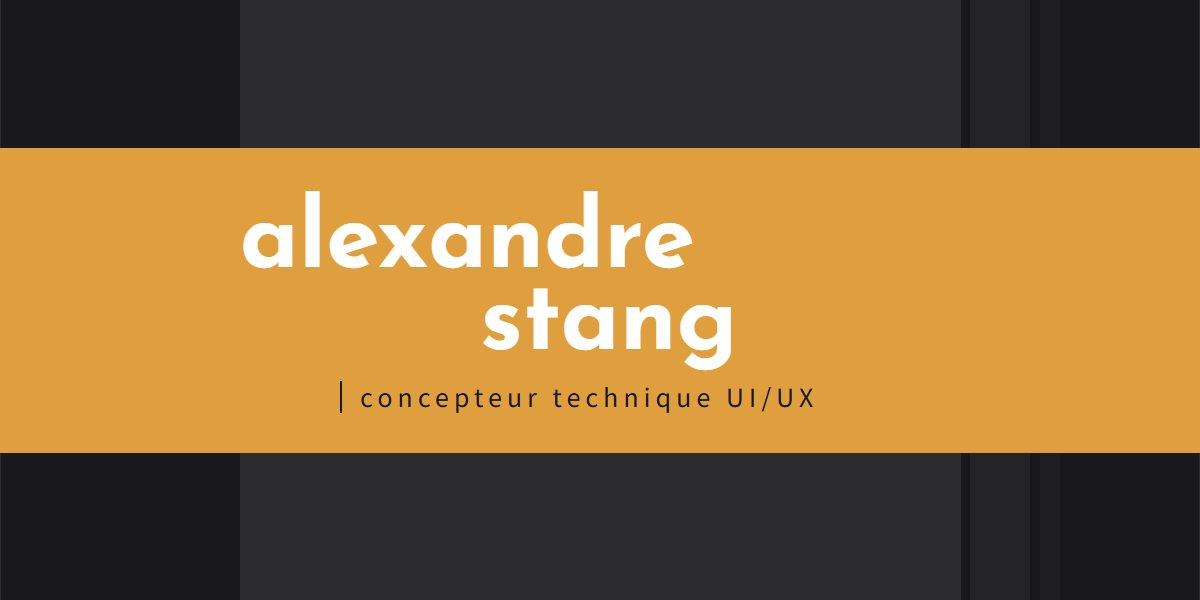
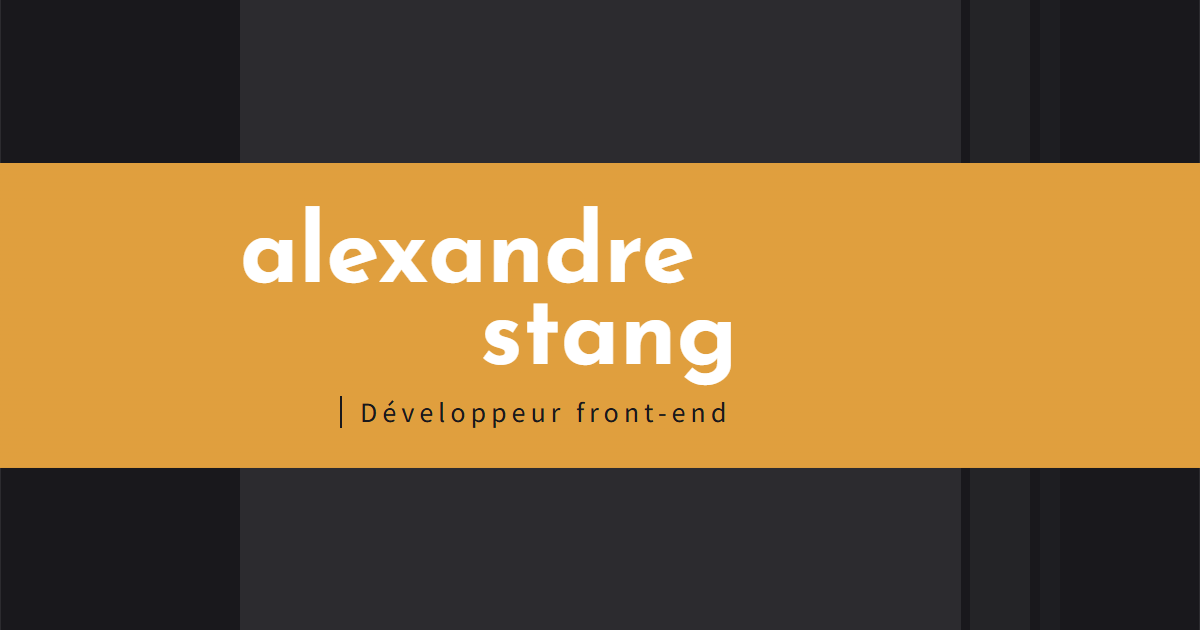
Updated the Open Graph image and added Meta keywords

diff --git a/gatsby-config.js b/gatsby-config.js
@@ -8,45 +8,49 @@
  * @type {import('gatsby').GatsbyConfig}
  */
 module.exports = {
-  // Metadata to use throughout the website
-  siteMetadata: {
-    title: "Alexandre Stang",
-    author: "Alexandre Stang",
-    description: "Développeur front-end spécialisé dans la conception et l'intégration d'interfaces visuelles.",
-    role: "Développeur front-end",
-    siteUrl: "https://alexandrestang.com/",
-    contact: {
-      email: "alexandre.stang.web@gmail.com",
-      github: "https://github.com/AlexandreStang",
-      linkedIn: "https://www.linkedin.com/in/alexandre-stang-163208a7/",
-      behance: "https://www.behance.net/alexandrestang"
-    }
-  },
-  plugins: [
-    // https://www.gatsbyjs.com/plugins/gatsby-transformer-remark/ <- To transform Markdown files
-    `gatsby-transformer-remark`,
-    // https://www.gatsbyjs.com/plugins/gatsby-source-filesystem/ <- To access and read files
-    {
-      resolve: `gatsby-source-filesystem`,
-      options: {
-        // The unique name for each instance
-        name: `images`,
-        // Path to the directory
-        path: `${__dirname}/src/img/`,
-      }
+    // Metadata to use throughout the website
+    siteMetadata: {
+        title: "Alexandre Stang",
+        author: "Alexandre Stang",
+        description: "Développeur front-end spécialisé dans la conception et l'intégration d'interfaces visuelles.",
+        role: "Développeur front-end",
+        siteUrl: "https://alexandrestang.com/",
+        keywords: "HTML, CSS, Sass, Javascript, React, Gatsby, GraphQL, Python, Java, Python, C#, Unity" +
+            "Alexandre, Stang, Alexandre Stang, Portfolio, UX, UI, Designer, Intégrateur, Web, Front-end, Illustrateur, " +
+            "Collège, Montpetit, Adobe, Photoshop, Illustrator, XD, Figma, UQAT, Université de Montréal, UDEM, Montréal, " +
+            "Québec, Canada",
+        contact: {
+            email: "alexandre.stang.web@gmail.com",
+            github: "https://github.com/AlexandreStang",
+            linkedIn: "https://www.linkedin.com/in/alexandre-stang-163208a7/",
+            behance: "https://www.behance.net/alexandrestang"
+        }
     },
-    {
-      resolve: `gatsby-source-filesystem`,
-      options: {
-        // The unique name for each instance
-        name: `content`,
-        // Path to the directory
-        path: `${__dirname}/src/content/`,
-      }
-    },
-    // https://www.gatsbyjs.com/plugins/gatsby-plugin-image/?=gatsby-image <- To add responsive images
-    `gatsby-plugin-image`,
-    `gatsby-plugin-sharp`,
-    `gatsby-transformer-sharp`,
-  ],
+    plugins: [
+        // https://www.gatsbyjs.com/plugins/gatsby-transformer-remark/ <- To transform Markdown files
+        `gatsby-transformer-remark`,
+        // https://www.gatsbyjs.com/plugins/gatsby-source-filesystem/ <- To access and read files
+        {
+            resolve: `gatsby-source-filesystem`,
+            options: {
+                // The unique name for each instance
+                name: `images`,
+                // Path to the directory
+                path: `${__dirname}/src/img/`,
+            }
+        },
+        {
+            resolve: `gatsby-source-filesystem`,
+            options: {
+                // The unique name for each instance
+                name: `content`,
+                // Path to the directory
+                path: `${__dirname}/src/content/`,
+            }
+        },
+        // https://www.gatsbyjs.com/plugins/gatsby-plugin-image/?=gatsby-image <- To add responsive images
+        `gatsby-plugin-image`,
+        `gatsby-plugin-sharp`,
+        `gatsby-transformer-sharp`,
+    ],
 }

diff --git a/src/components/Seo.js b/src/components/Seo.js
@@ -2,14 +2,15 @@ import React from "react"
 import { useSiteMetadata } from "../hooks/UseSiteMetadata"
 
 export default function Seo({ title, description }) {
-    const { title: defaultTitle, description: defaultDescription, author, siteUrl } = useSiteMetadata()
+    const { title: defaultTitle, description: defaultDescription, author, siteUrl, keywords } = useSiteMetadata()
 
     const seo = {
         title: title || defaultTitle,
         description: description || defaultDescription,
         author: author,
         siteUrl: siteUrl,
-        image: `${siteUrl}/og-image.png`
+        image: `${siteUrl}/og-image.png`,
+        keywords: keywords
     }
 
     // console.log(seo)
@@ -20,6 +21,8 @@ export default function Seo({ title, description }) {
 
             <meta name="description" content={seo.description}/>
             <meta name="author" content={seo.author}/>
+            <meta name="keywords"
+                  content={seo.keywords}/>
 
             <meta property="og:title" content={seo.title}/>
             <meta property="og:description" content={seo.description}/>

diff --git a/src/hooks/UseSiteMetadata.js b/src/hooks/UseSiteMetadata.js
@@ -9,6 +9,7 @@ export const useSiteMetadata = () => {
           description
           author
           siteUrl
+          keywords
         }
       }
     }
